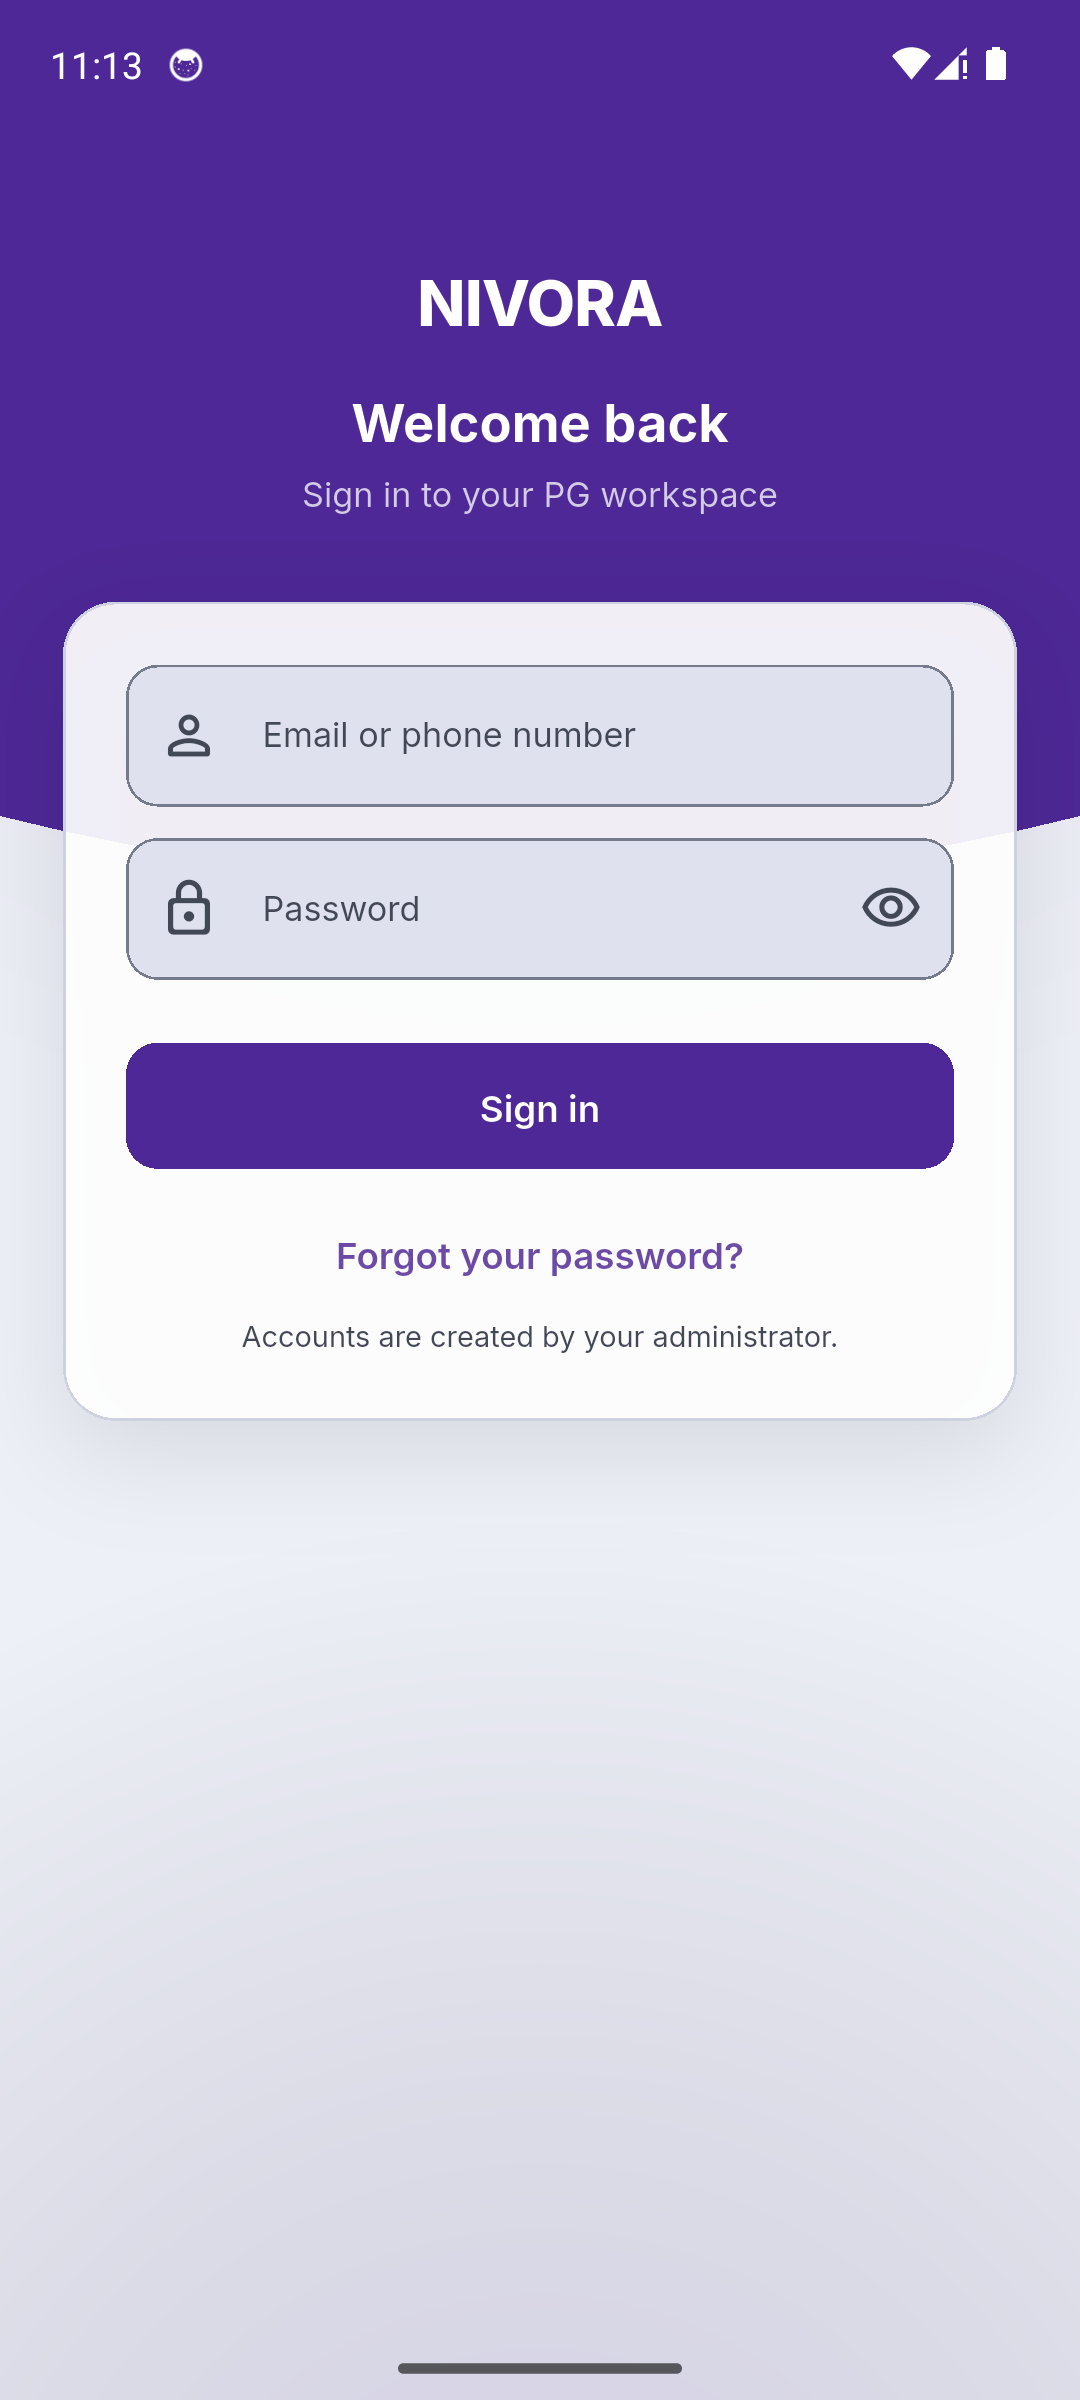
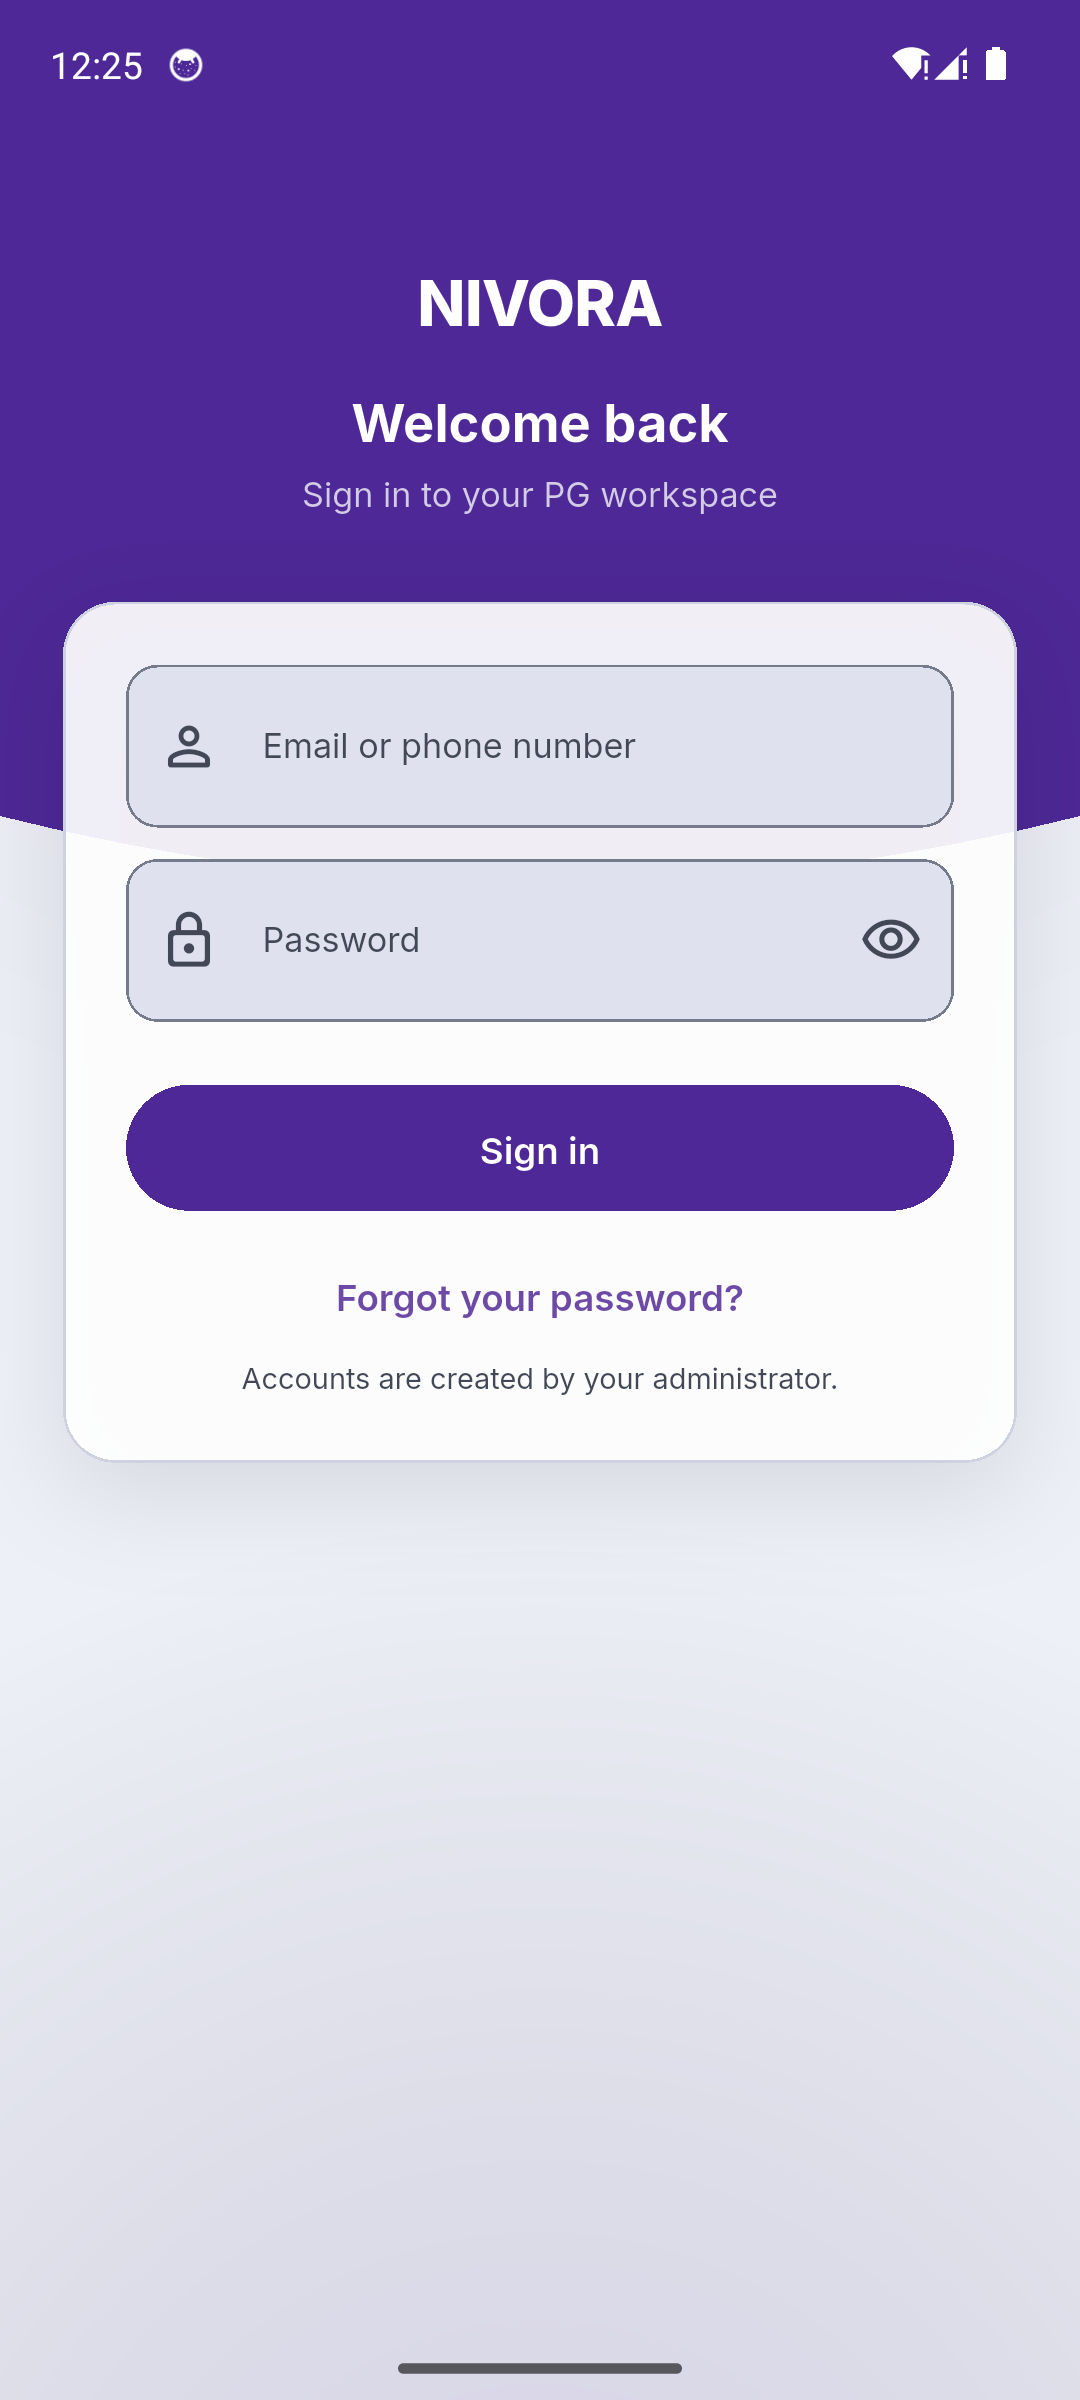
The before and after, photographed rather than described
design-competitor/ now holds both ends of this redesign as images, plus the table that says
what moved. Two of the after shots are rendered by test/_shot.dart rather than photographed,
because those screens sit behind a login — noted in the file, along with the reason their icons
show as squares and where the glyphs were actually checked instead.

The onboarding flow was walked end to end on the device before this landed: clean install goes
to the tour, finishing it goes to sign-in, and relaunching goes straight to sign-in. That last
step is the one worth having done by hand — a marker file that writes but never reads back
would look identical in every test that mocks it.

diff --git a/nivora_app/design-competitor/BEFORE.md b/nivora_app/design-competitor/BEFORE.md
@@ -62,3 +62,29 @@ better than anything in the competitor, which has no dark theme at all. Three re
 
 NIVORA wins on rigour and loses on presence. The redesign has to keep the first and buy the
 second.
+
+---
+
+# After
+
+Same device, same emulator, HEAD at the end of the redesign. Files: `after-signin-light.png`,
+`after-signin-dark.png`, `after-onboarding-1.png`, `after-onboarding-3.png`,
+`after-owner-light.png`, `after-owner-dark.png`, `after-warden-light.png`,
+`after-superadmin-light.png`.
+
+The signed-in shots are rendered by `test/_shot.dart` rather than photographed, because those
+screens are behind a login. Icons show as squares in those two — the test runner stubs the icon
+font — so glyphs were checked on the device instead, where they render normally.
+
+| | before | after |
+|---|---|---|
+| Light-theme brand | `#79590C`, a quantiser's bronze | `#6C4AA5`, chosen and measured |
+| Light-theme depth | card, bar and sheet all `#FFFFFF` | a real three-rung ramp |
+| `NivoraDomain.security` in light | gold at **2.24:1** on a white card | the brand, 6.64:1 |
+| Card corner | 12dp | 16dp (screen 20dp) |
+| Primary CTA | 12dp rectangle | pill |
+| Field height | ~50dp | ~58dp |
+| Top third of sign-in | empty | the brow, with the card riding its seam |
+| Signed-in header | flat bar, 3 of 5 roles undecorated | the brow, all five |
+| Onboarding | none | four pages |
+| Contrast enforced in CI | 86 tests | 89, and the light group now asserts the opposite of what it did |
